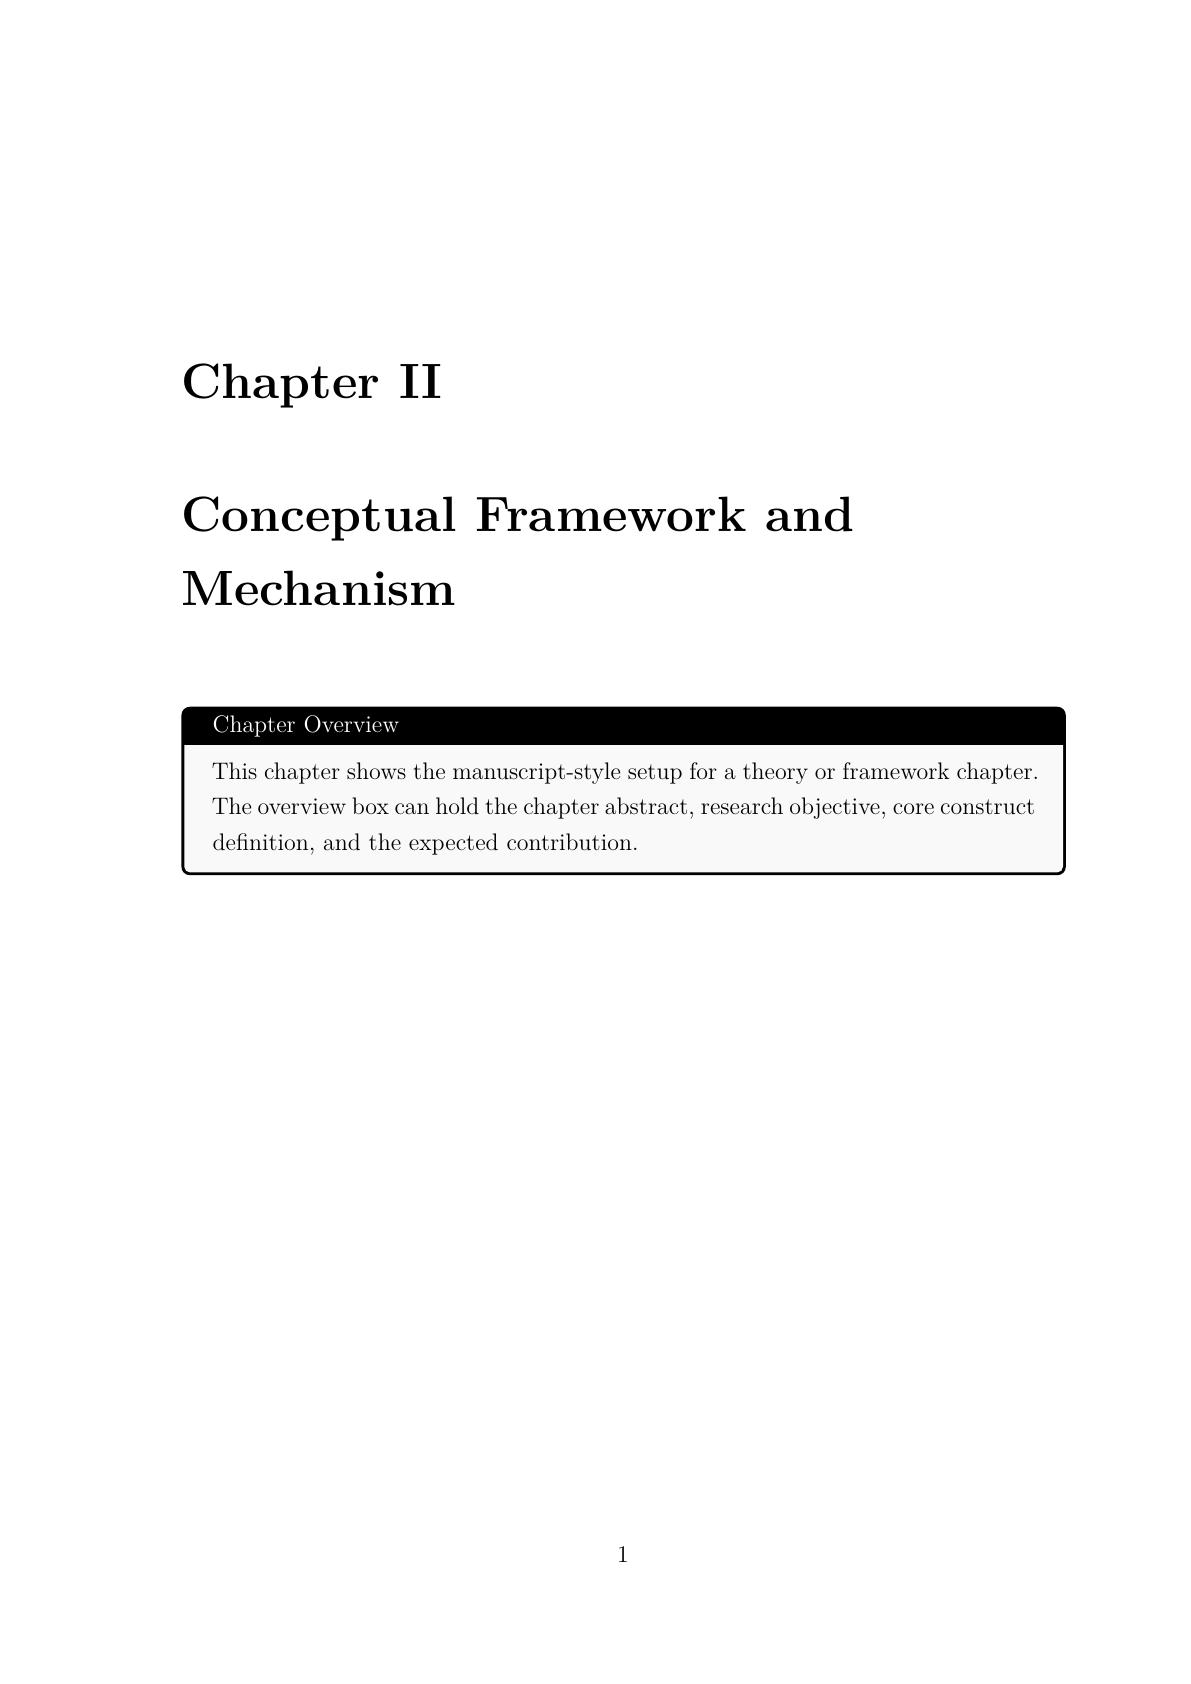
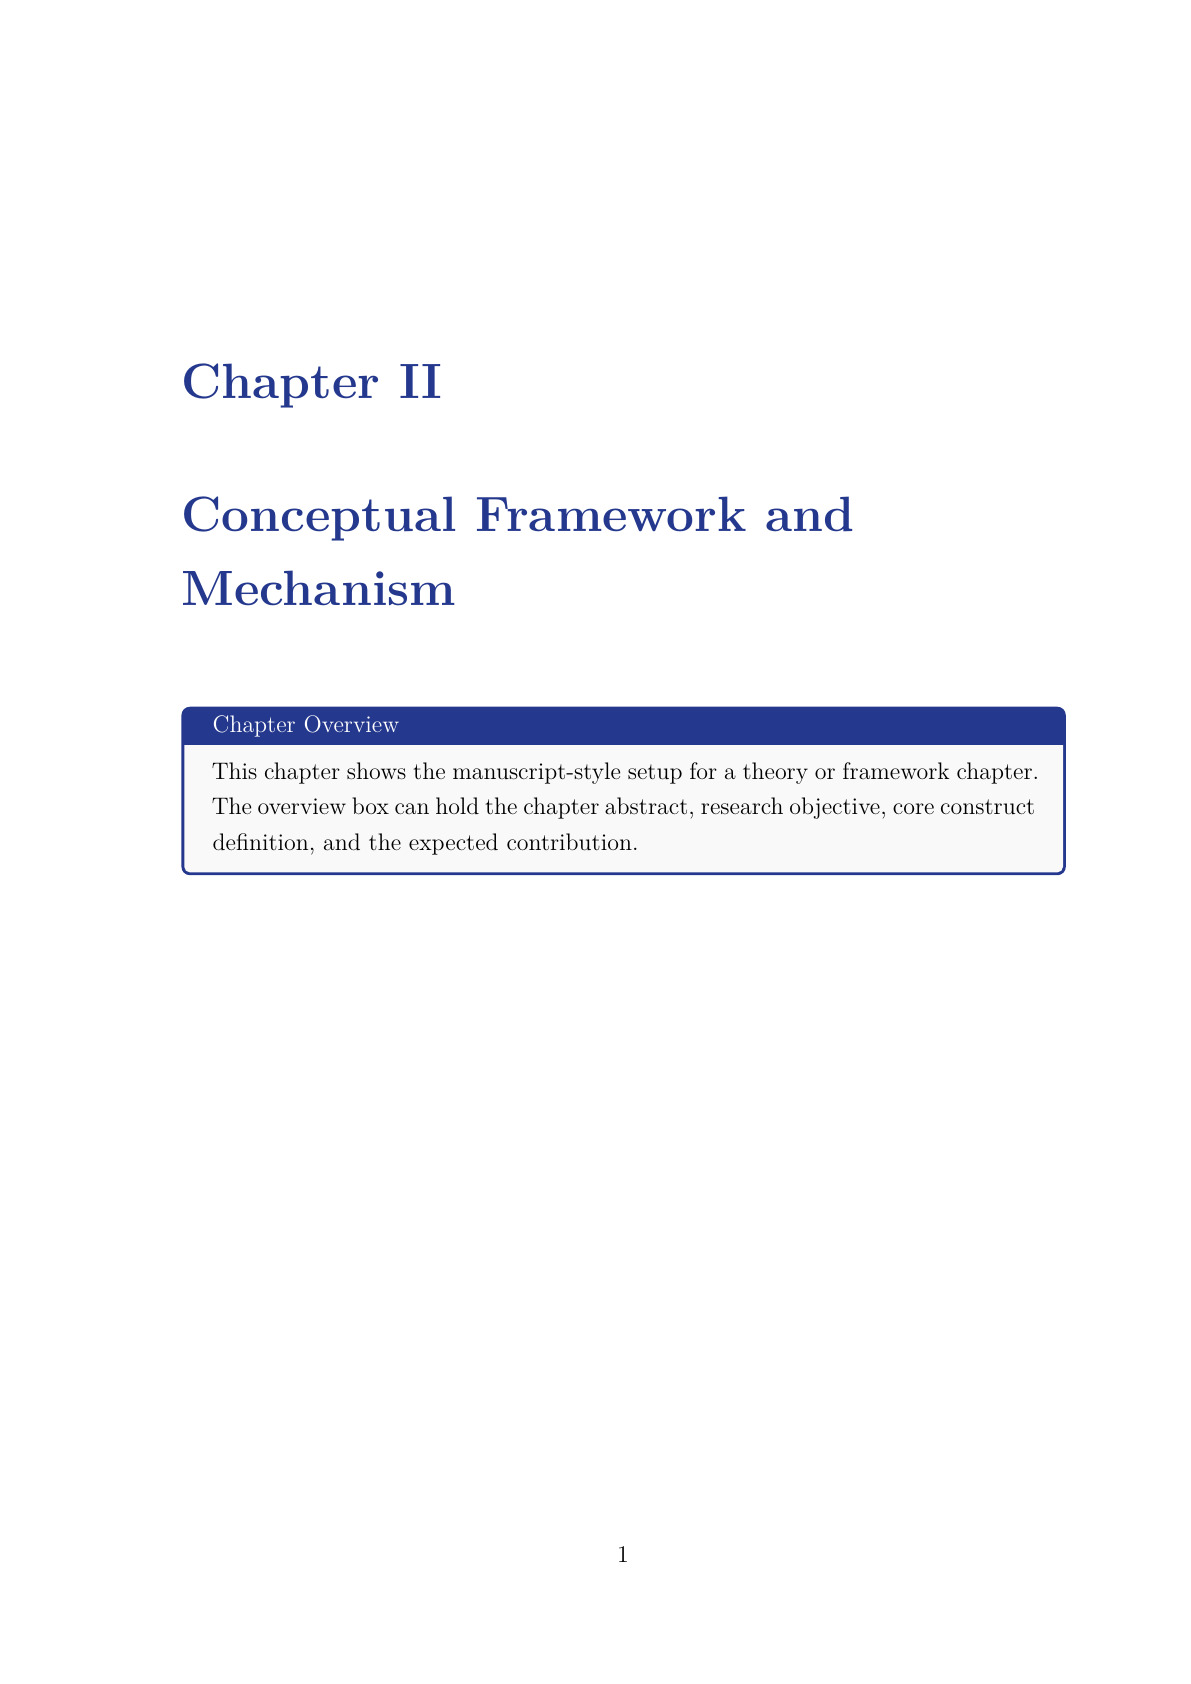
Use cover blue on chapter openings

diff --git a/Dauphine Thesis Manuscript Template/config/preamble.tex b/Dauphine Thesis Manuscript Template/config/preamble.tex
@@ -68,6 +68,29 @@
   \renewcommand{\tablename}{Table}
 }
 
+%%%% Chapter styling
+\makeatletter
+\def\@makechapterhead#1{%
+  \vspace*{50\p@}%
+  {\parindent \z@ \raggedright \normalfont\color{myblue}%
+    \ifnum \c@secnumdepth >\m@ne
+      \huge\bfseries \@chapapp\space \thechapter
+      \par\nobreak
+      \vskip 20\p@
+    \fi
+    \interlinepenalty\@M
+    \Huge\bfseries #1\par\nobreak
+    \vskip 40\p@
+  }}
+\def\@makeschapterhead#1{%
+  \vspace*{50\p@}%
+  {\parindent \z@ \raggedright \normalfont\color{myblue}%
+    \interlinepenalty\@M
+    \Huge\bfseries #1\par\nobreak
+    \vskip 40\p@
+  }}
+\makeatother
+
 %%%% Bibliography
 \usepackage[
   backend=biber,
@@ -80,7 +103,7 @@
 
 %%%% Chapter helpers
 \newcommand{\chapterabstract}[1]{%
-  \begin{tcolorbox}[colback=gray!5,colframe=black,title=Chapter Overview]
+  \begin{tcolorbox}[colback=gray!5,colframe=myblue,colbacktitle=myblue,coltitle=white,title=Chapter Overview]
   #1
   \end{tcolorbox}
 }
